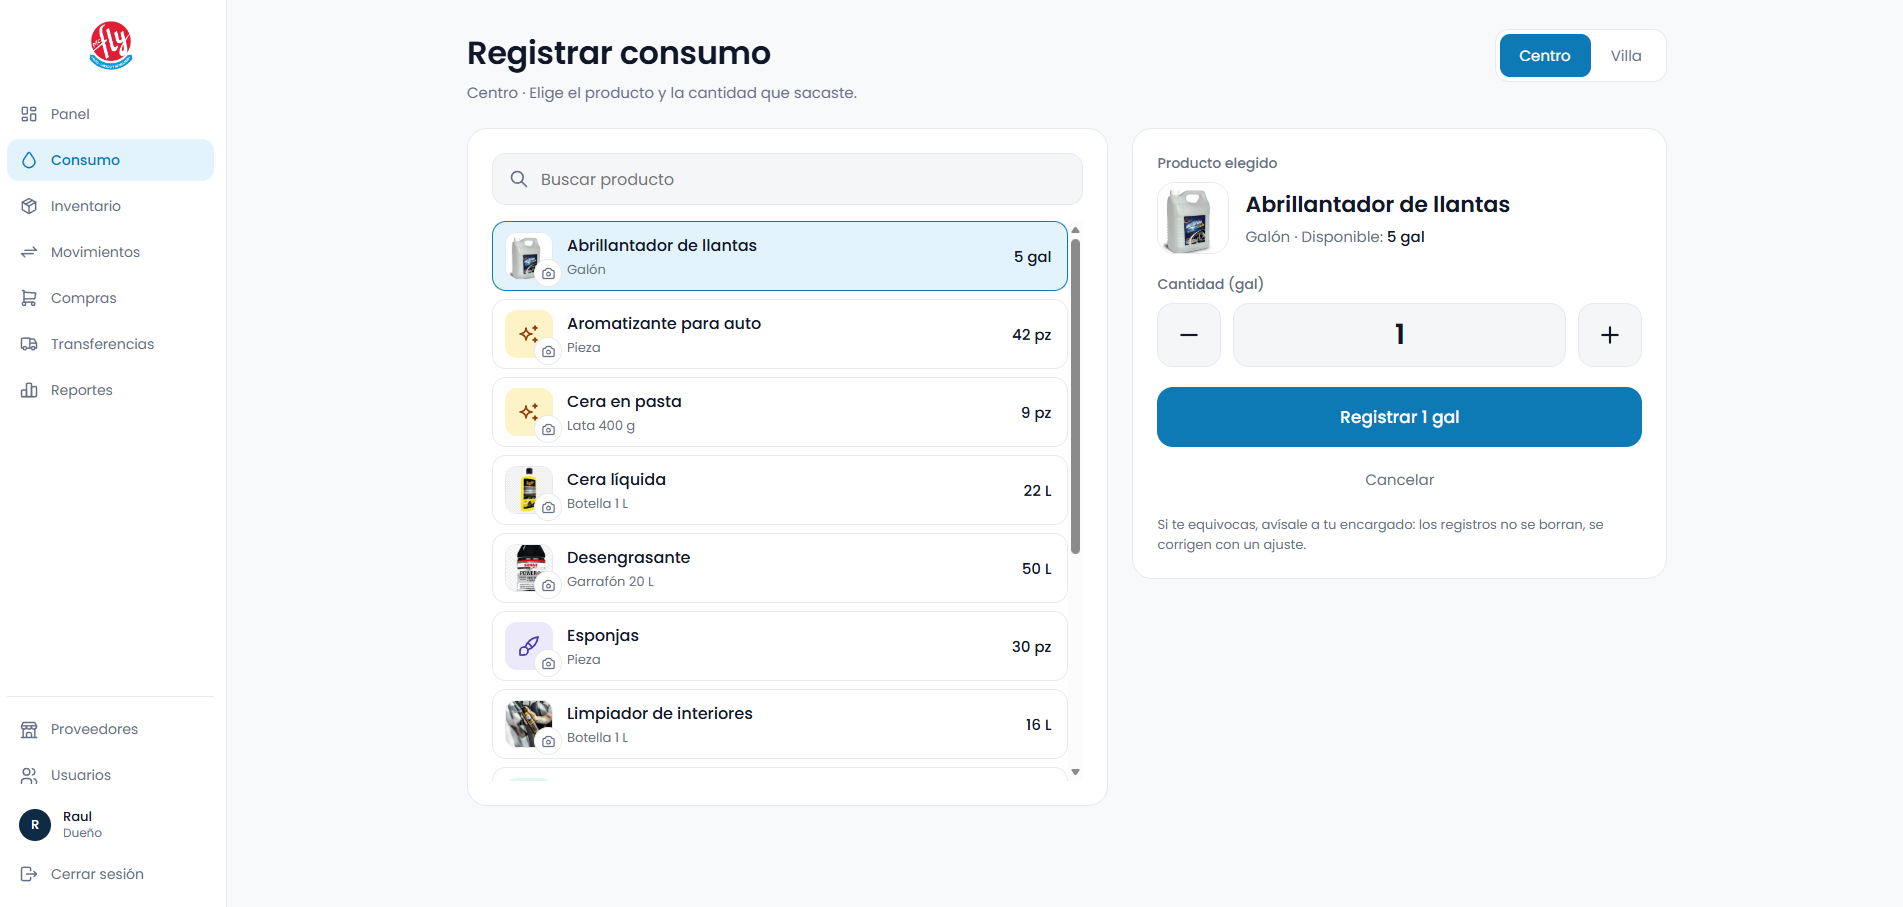
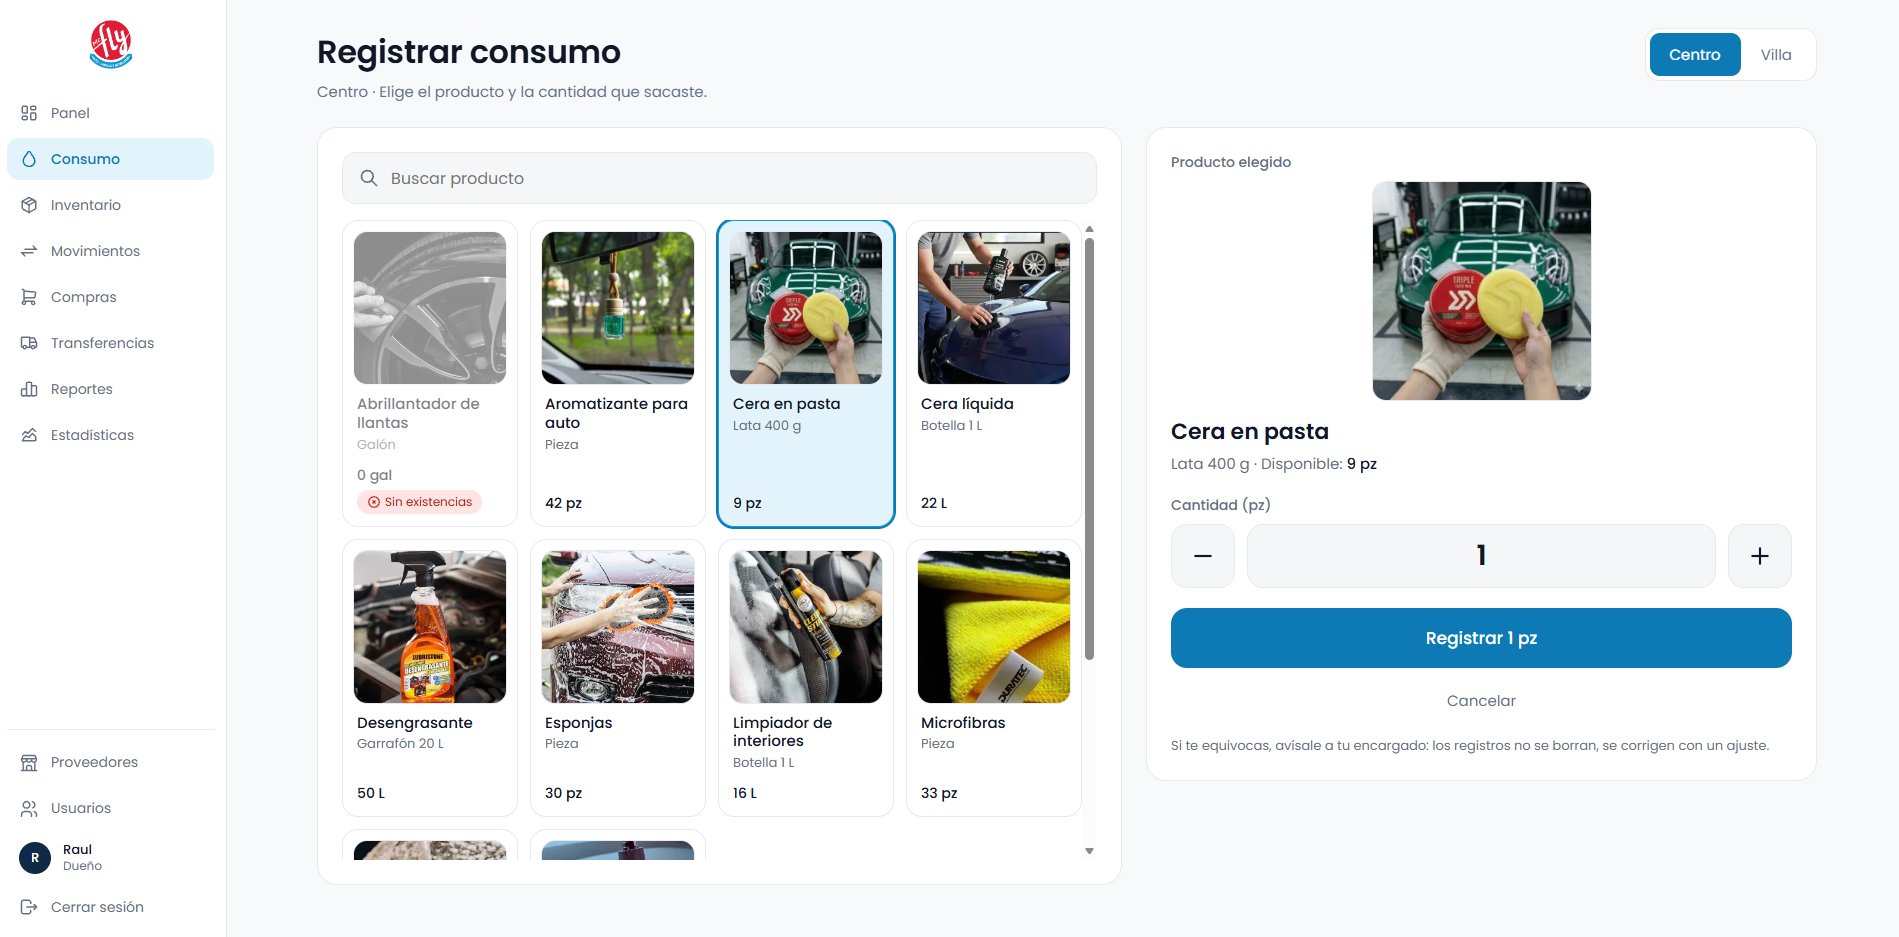
README: capturas nuevas de Consumo e Inventario y sección de Estadísticas

diff --git a/README.md b/README.md
@@ -36,13 +36,21 @@ Una herramienta que responde **qué hay, dónde está y cuánto se gasta**, con 
 
 ![Panel](docs/capturas/panel.png)
 
-| Inventario | Transferencias |
-|---|---|
-| ![Inventario](docs/capturas/inventario.png) | ![Transferencias](docs/capturas/transferencias.png) |
+**Estadísticas**
 
-| Consumo | Panel en celular |
+![Estadísticas](docs/capturas/estadisticas.png)
+
+**Consumo**
+
+![Consumo](docs/capturas/consumo.png)
+
+**Inventario**
+
+![Inventario](docs/capturas/inventario.png)
+
+| Transferencias | Panel en celular |
 |---|---|
-| ![Consumo](docs/capturas/consumo.png) | <img src="docs/capturas/panel-celular.png" width="300" alt="Panel en celular"> |
+| ![Transferencias](docs/capturas/transferencias.png) | <img src="docs/capturas/panel-celular.png" width="300" alt="Panel en celular"> |
 
 <details>
 <summary>Ver más pantallas</summary>
@@ -50,6 +58,12 @@ Una herramienta que responde **qué hay, dónde está y cuánto se gasta**, con 
 **Inicio de sesión**
 
 ![Login](docs/capturas/login.jpg)
+
+**Más gráficas de Estadísticas**
+
+![Estadísticas: categorías, productos y compras](docs/capturas/estadisticas-2.png)
+
+![Estadísticas: proveedores, sucursales, cobertura y costos](docs/capturas/estadisticas-3.png)
 
 **Movimientos**
 
